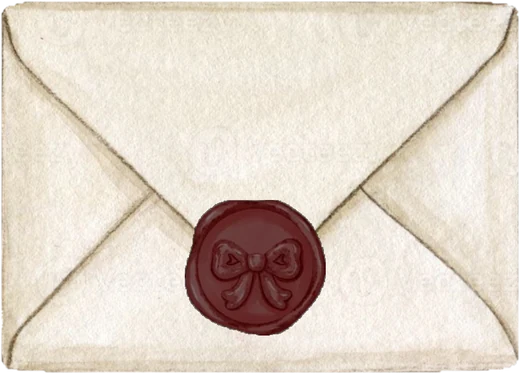
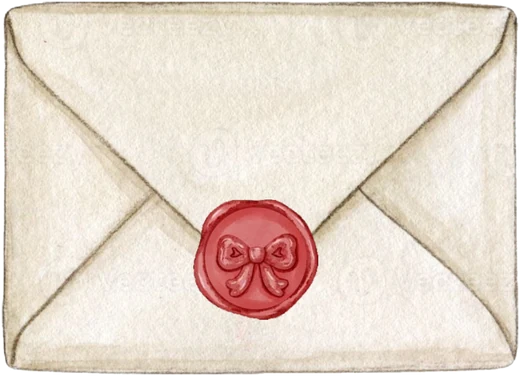
Red-seal envelope; tighter spacing from countdown to RSVP
Claude-Session: https://claude.ai/code/session_01VR3RgDGCSpaeBPWy6oQ488

diff --git a/index.html b/index.html
@@ -183,7 +183,7 @@ h2.title{
   background:radial-gradient(ellipse 80% 62% at 50% 50%,rgba(255,247,230,.62) 0%,rgba(255,247,230,.34) 55%,rgba(255,247,230,0) 100%);
 }
 .band .eyebrow{color:var(--ink)}
-.flow{display:flex;flex-direction:column;gap:clamp(36px,6vw,56px)}
+.flow{display:flex;flex-direction:column;gap:clamp(14px,3vw,26px)}
 
 /* ---------- Invitation (blue block, three framed photos) ---------- */
 .invite .wrap{display:flex;flex-direction:column;align-items:center;gap:clamp(4px,1.5vw,12px)}
@@ -282,7 +282,7 @@ h2.title{
 @keyframes dotIn{from{transform:scale(.4);opacity:0}to{transform:none;opacity:1}}
 
 /* ---------- Countdown + RSVP (one painted section) ---------- */
-.wrap.count{display:flex;flex-direction:column;align-items:center;gap:1.6rem}
+.wrap.count{display:flex;flex-direction:column;align-items:center;gap:.6rem}
 .units{display:flex;justify-content:center;width:100%}
 .unit{display:flex;flex-direction:column;align-items:center;gap:.5rem}
 .unit .num{
